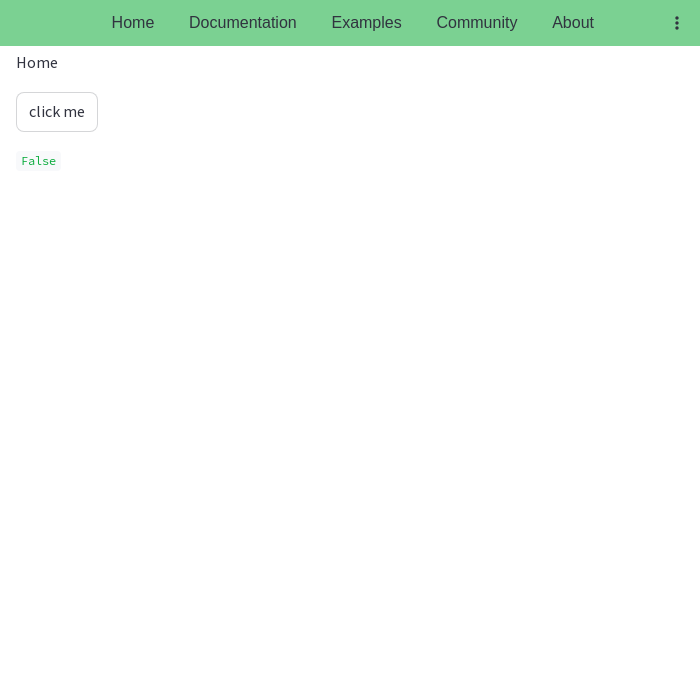
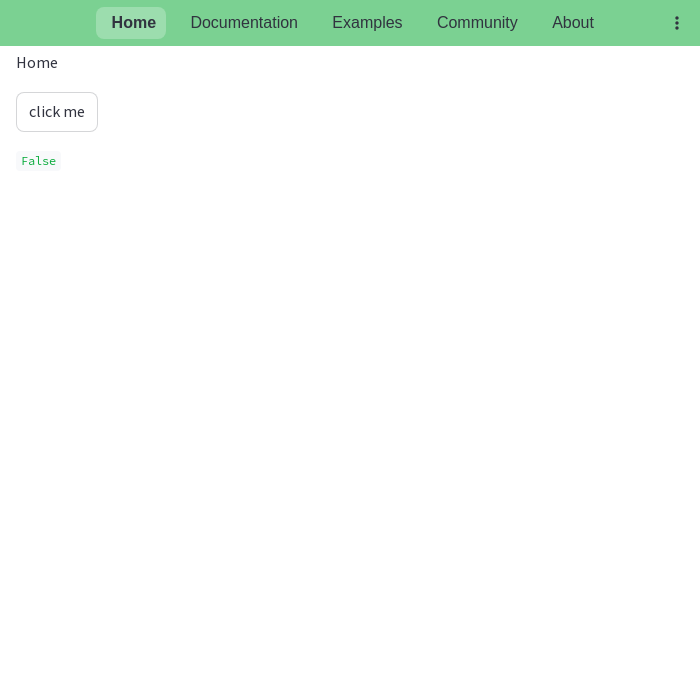
Fix for default and active page (#34)
* Fix for default and active page

* Use padding in example 8

* Fix example 8

diff --git a/streamlit_navigation_bar/frontend/src/StNavbar.vue b/streamlit_navigation_bar/frontend/src/StNavbar.vue
@@ -68,8 +68,8 @@
           >
             <span
               :data-text="page.title"
-              :class="[{active: page === activePage}, hoverColor, hoverBgColor]"
-              :style="parseStyles(styles['span']) + parseStyles(styles['active'], page === activePage)"
+              :class="[{active: page.key === activePage}, hoverColor, hoverBgColor]"
+              :style="parseStyles(styles['span']) + parseStyles(styles['active'], page.key === activePage)"
 	      class="navbar-span"
 	      style="display: inline-block;"
             >
@@ -109,8 +109,8 @@
           >
             <span
               :data-text="page.title"
-              :class="[{active: page === activePage}, hoverColor, hoverBgColor]"
-              :style="parseStyles(styles['span']) + parseStyles(styles['active'], page === activePage)"
+              :class="[{active: page.key === activePage}, hoverColor, hoverBgColor]"
+              :style="parseStyles(styles['span']) + parseStyles(styles['active'], page.key === activePage)"
 	      class="navbar-span"
 	      style="display: inline-block"
             >
@@ -142,14 +142,18 @@ import { useStreamlit } from "./streamlit"
 // "args".
 const props = defineProps(["args"])
 // Fetch changes to the default page, made by a callback function.
-const selected = computed(() => props.args.default)
-const activePage = ref(props.args.default)
+const selected = computed(() => props.args.default[0])
+const activePage = ref(props.args.default[0])
+console.log("selected", props.args.default)
+console.log("left", props.args.left)
+console.log("right", props.args.right)
 
 useStreamlit()  // Lifecycle hooks for automatic Streamlit resize.
 
 watch(selected, () => {
     // Executed when `selected` changes.
     activePage.value = selected.value
+    console.log("active page", activePage)
   }
 )
 
@@ -161,11 +165,12 @@ const onClicked = (page) => {
     const time = props.args.allow_reselect ? Date.now() : null;
     Streamlit.setComponentValue([p, time]);
   } else if (p.url[0] === "#") {
-    activePage.value = p;
+    activePage.value = p.key;
     const time = props.args.allow_reselect ? Date.now() : null;
     Streamlit.setComponentValue([p.title, time]);
   }
 }
+
 
 const styles = ref(props.args.styles || {})
 const css = ref(props.args.css)

diff --git a/streamlit_navigation_bar/__init__.py b/streamlit_navigation_bar/__init__.py
@@ -491,6 +491,7 @@ def st_navbar(
                 "title": page.title,
                 "icon": page.icon or None,
                 "url": urls.get(page.title, ["#", "_self"]),
+                "key": page.url_path,
             }
         else:
             st_page = st.Page(
@@ -503,12 +504,13 @@ def st_navbar(
                 "title": page,
                 "icon": icons.get(page),
                 "url": urls.get(page, ["#", "_self"]),
+                "key": page.lower(),
             }
 
     left = [to_dict(title) for title in left]
     right = [to_dict(title) for title in right]
 
-    default_page = page_list[0]
+    default_page = next(page for page in page_list if default == page.url_path)
     default_page_original_key = default_page.url_path
     default_page._default = True
 
@@ -546,7 +548,7 @@ def st_navbar(
         fallback_page_hash=default_page._script_hash
     )
 
-    if found_page and found_page["page_script_hash"] != page_list[0]._script_hash:
+    if found_page and found_page["page_script_hash"] != default_page._script_hash:
         default = found_page["url_pathname"]
 
     links = links or []
@@ -555,9 +557,11 @@ def st_navbar(
     page_name, _ = _st_navbar(
         left=left,
         right=right,
+        # This is required for the first call
+        # to ensure we return two values
         default=(default, None),
         base64_svg=base64_svg,
-        logo_page=logo_page,
+        logo_page=logo_page.lower(),
         styles=styles,
         css=css,
         on_change=on_change,

diff --git a/examples/st_navbar_9/streamlit_app.py b/examples/st_navbar_9/streamlit_app.py
@@ -13,6 +13,7 @@ page = st_navbar(
     ["Home", "Documentation", "Examples", "Account", "About"],
     on_change=reset_state,
     allow_reselect=True,
+    links=["https://fonts.googleapis.com/icon?family=Material+Icons"],
 )
 
 st.write(page)

diff --git a/examples/st_navbar_8/streamlit_app.py b/examples/st_navbar_8/streamlit_app.py
@@ -12,7 +12,7 @@ page = st_navbar(
     ["Home", "Documentation", "Examples", "Account", about],
     allow_reselect=True,
     options={
-        "use_padding": False,
+        "use_padding": True,
     },
     key="navbar",
 )
